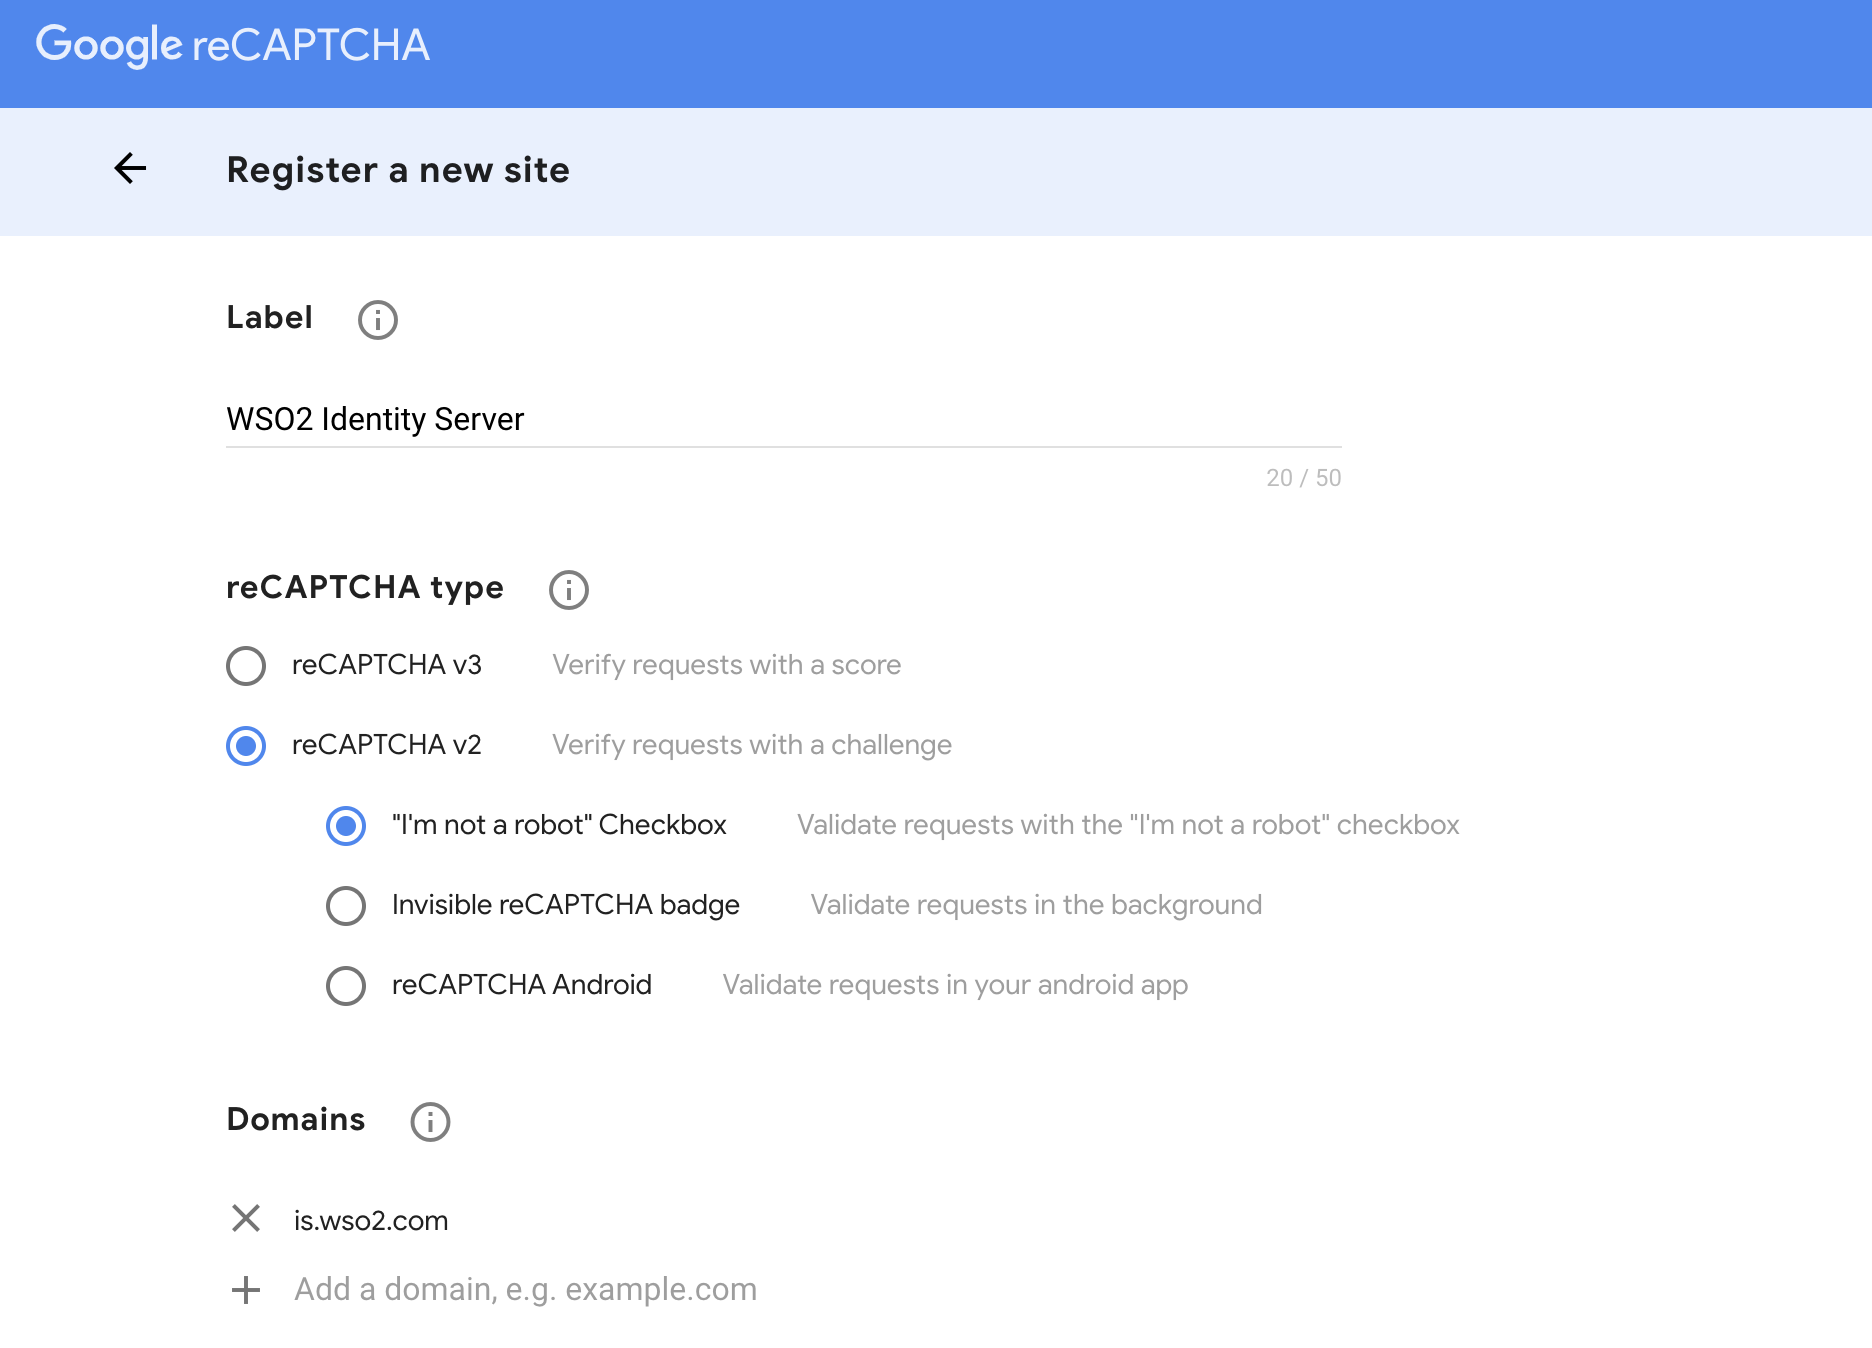
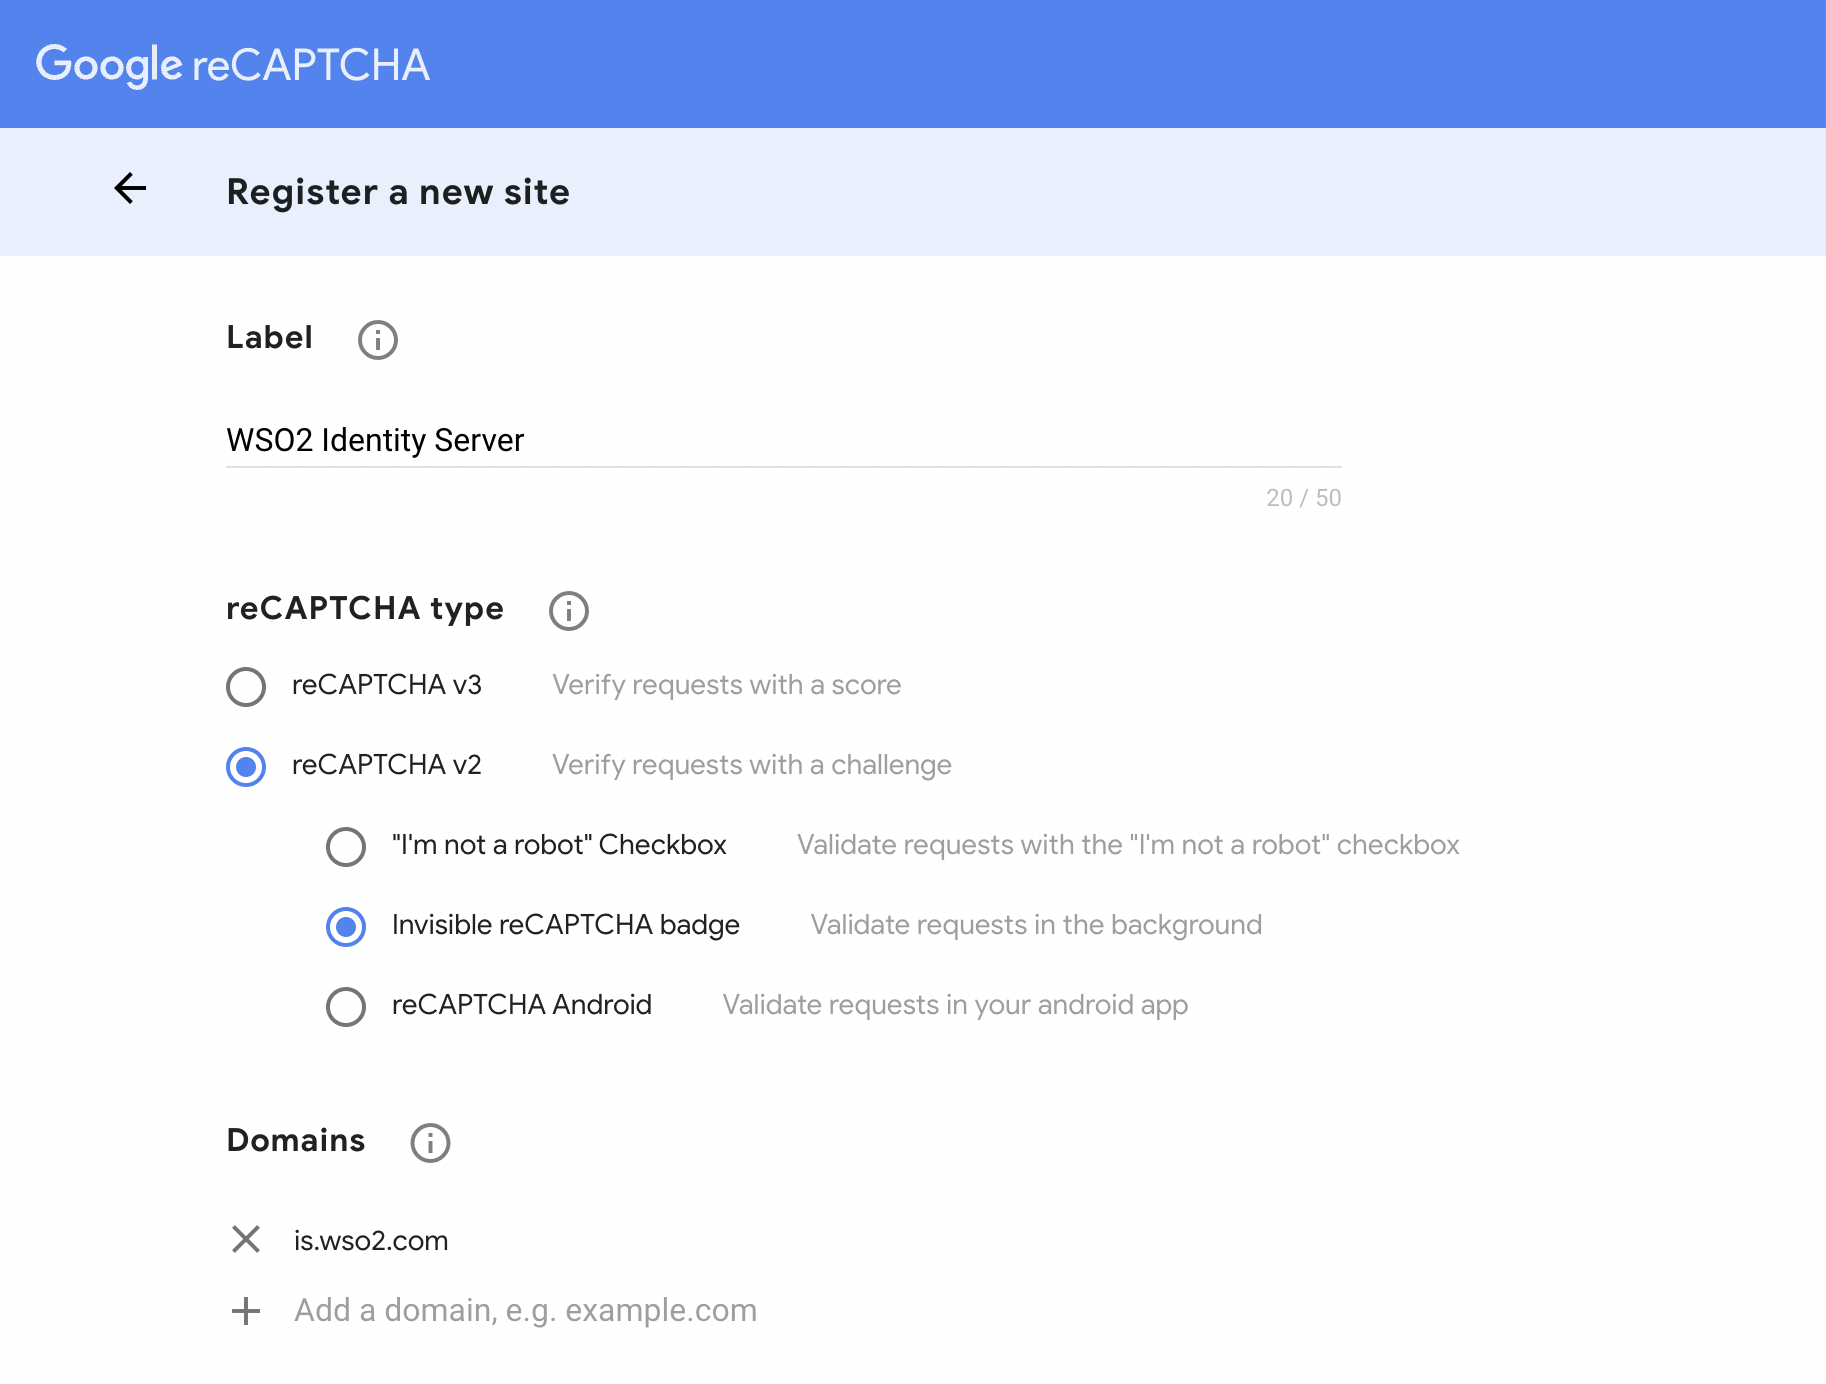
set up recaptcha

diff --git a/en/docs/guides/login/configure-recaptcha-for-single-sign-on.md b/en/docs/guides/login/configure-recaptcha-for-single-sign-on.md
@@ -12,9 +12,17 @@ attacks.
 
 ## Configure reCAPTCHA API keys
 
-[reCAPTCHA](https://developers.google.com/recaptcha/) is a free widget service provided by Google that can be used for protection against spam or other forms of internet abuse by verifying whether a user is a human or a robot. The following section guides you through setting up reCAPTCHA with WSO2 Identity Server.
+[reCAPTCHA](https://developers.google.com/recaptcha/) (v3 and v2) is a free widget service provided by Google that can be used for protection against spam or other forms of internet abuse by verifying whether a user is a human or a robot. The following section guides you through setting up reCAPTCHA with WSO2 Identity Server.
 
-First, you need to register and create an API key pair for the required domain. The key pair consists of a site key and secret. The site key is used when a reCAPTCHA widget is displayed on a page. After verification, a new parameter called g-recaptcha-response appears on the form which the user submits. From the server side, you can verify the submitted captcha response by calling the Google API with the secret key.
+First, you need to register and create an API key pair for the required domain. The key pair consists of a site key and secret key. The site key is used to invoke reCAPTCHA on a page. A new parameter called g-recaptcha-response is embedded to the request when user submits. From the server side, you can verify the submitted captcha response by calling the Google API with the secret key.
+
+!!! Info
+    -   The invisible reCAPTCHA v2 is invoked when the user clicks on an existing button. Only the most suspicious traffic will be prompted to solve a captcha.
+    -   The reCAPTCHA v3 does not require user interaction, and the user's actions are rated by the Google API by a score (between 0 and 1). 
+
+!!! Note  
+    -   For reCAPTCHA v3, you need to determine a threshold value for the score by looking at the traffic at [reCAPTCHA admin console](https://www.google.com/recaptcha/admin).
+    -   In the current  implementation, if the  score is less than the threshold, the user request will be blocked by the server.
 
 1.  Go to <https://www.google.com/recaptcha/admin>.
 
@@ -22,7 +30,7 @@ First, you need to register and create an API key pair for the required domain. 
     your identity server domain and click **Register**. The following
     are sample values:
     -   **Label:** WSO2 Identity Server
-    -   Select the reCAPTCHA V2 option.
+    -   Select either invisible reCAPTCHA V2 or reCAPTCHA V3 option.
     -   **Domains:** is.wso2.com  
 
 3.	Accept the terms of service. 

diff --git a/en/docs/includes/set-up-recaptcha.md b/en/docs/includes/set-up-recaptcha.md
@@ -11,6 +11,13 @@
     site_key = ""
     secret_key = ""
     ```
+
+    !!! note
+        If you want to set a custom `threshold` value for reCAPTCHA v3 score, you need to add a value between 0 and 1. The default value is 0.5.
+
+        ``` toml
+        threshold="0.5"
+        ```
     
     !!! note
     
